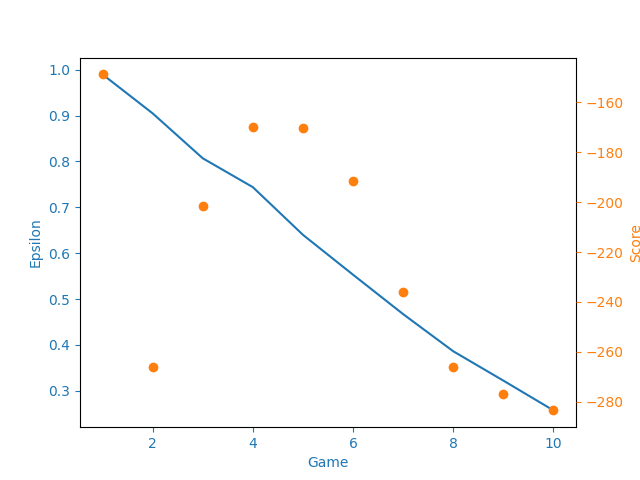
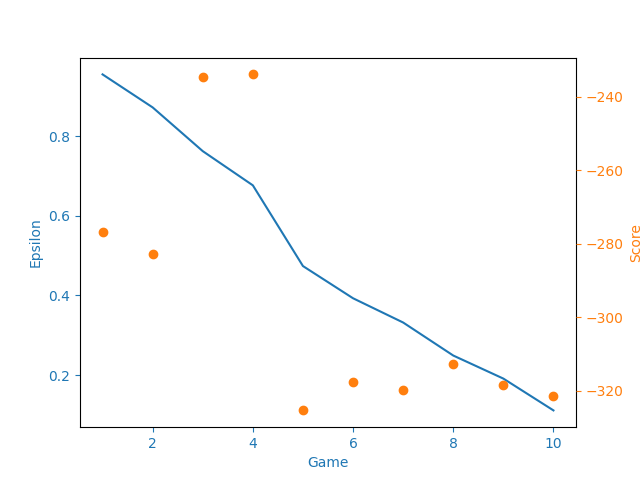
update expriment

diff --git a/Model3D_hyper/tria_3d_model_hyper.py b/Model3D_hyper/tria_3d_model_hyper.py
@@ -37,7 +37,7 @@ n_startup_trials = 10
 
 n_evaluations = 5
 
-n_timesteps = int(2e4)
+n_timesteps = int(2e5)
 
 eval_freq = int(n_timesteps / n_evaluations)
 
